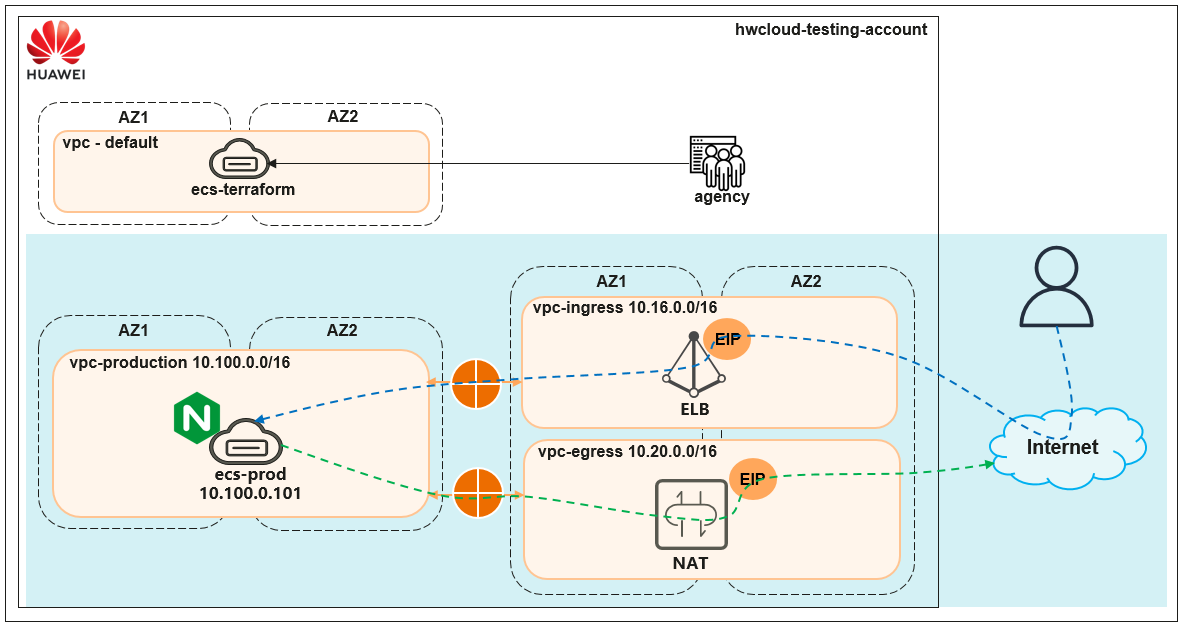
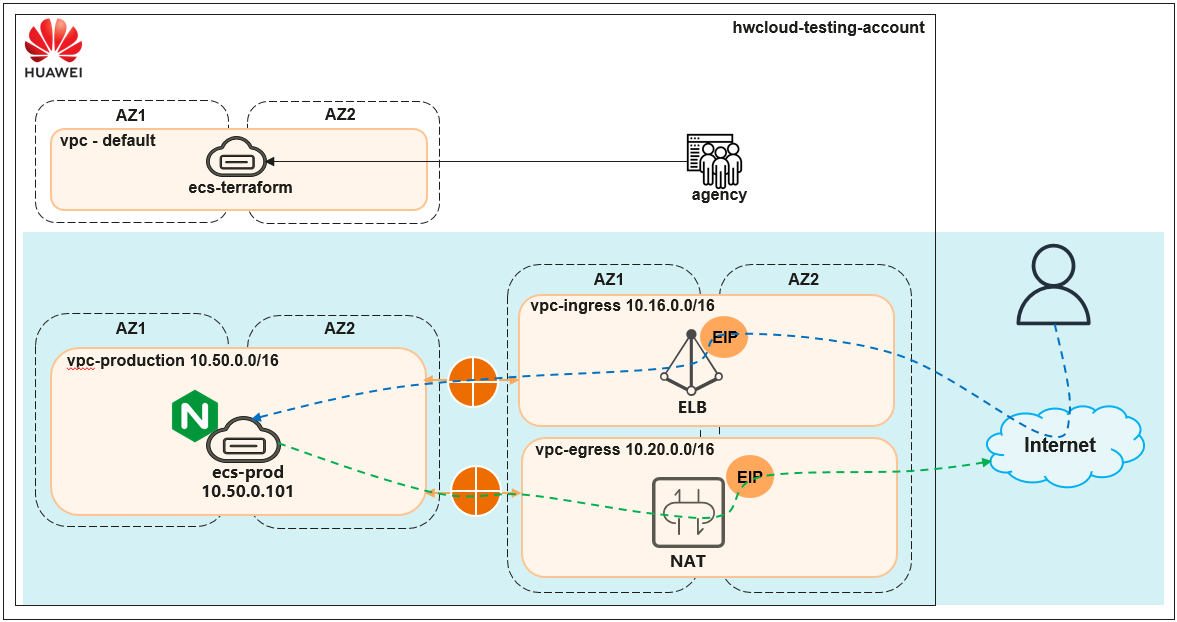
update guidelines 05

diff --git a/workshop/05_Result_Validation.md b/workshop/05_Result_Validation.md
@@ -19,7 +19,7 @@ To validate the functionality of the resources being created, you need to have a
 
         network {
             uuid = module.prod-vpc.private_subnet_id
-            fixed_ip_v4  = "10.100.0.101"
+            fixed_ip_v4  = "10.50.0.101"
         }
         depends_on = [ 
             module.prod-vpc
